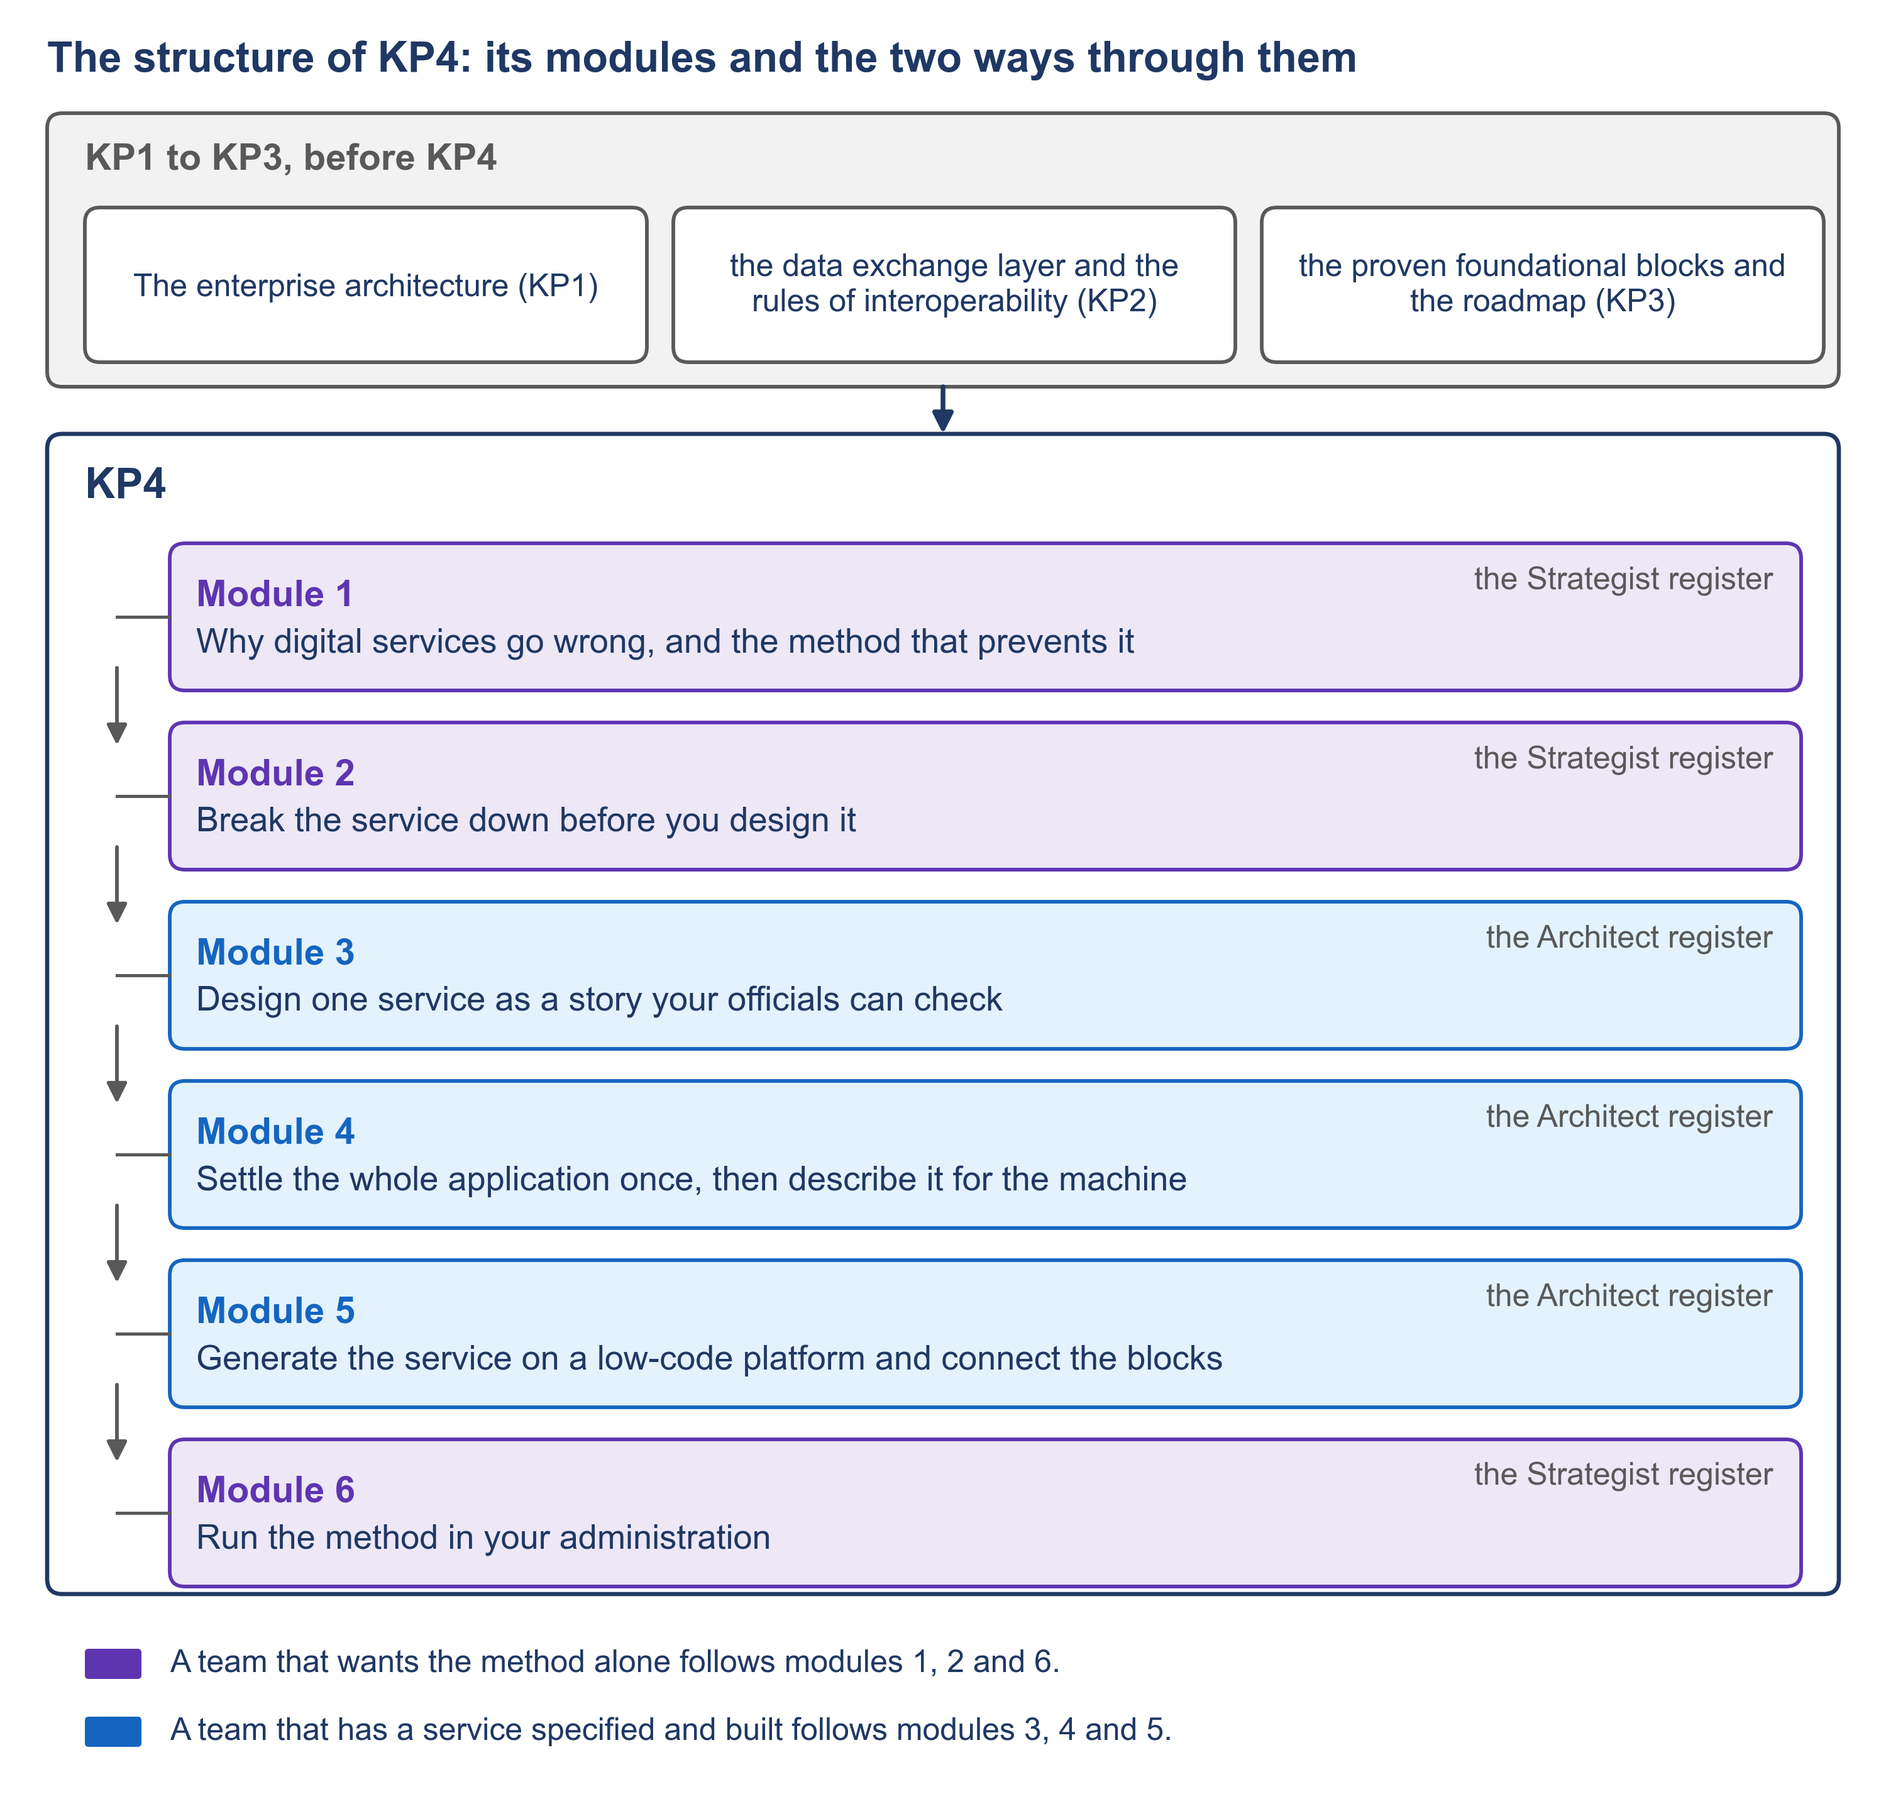
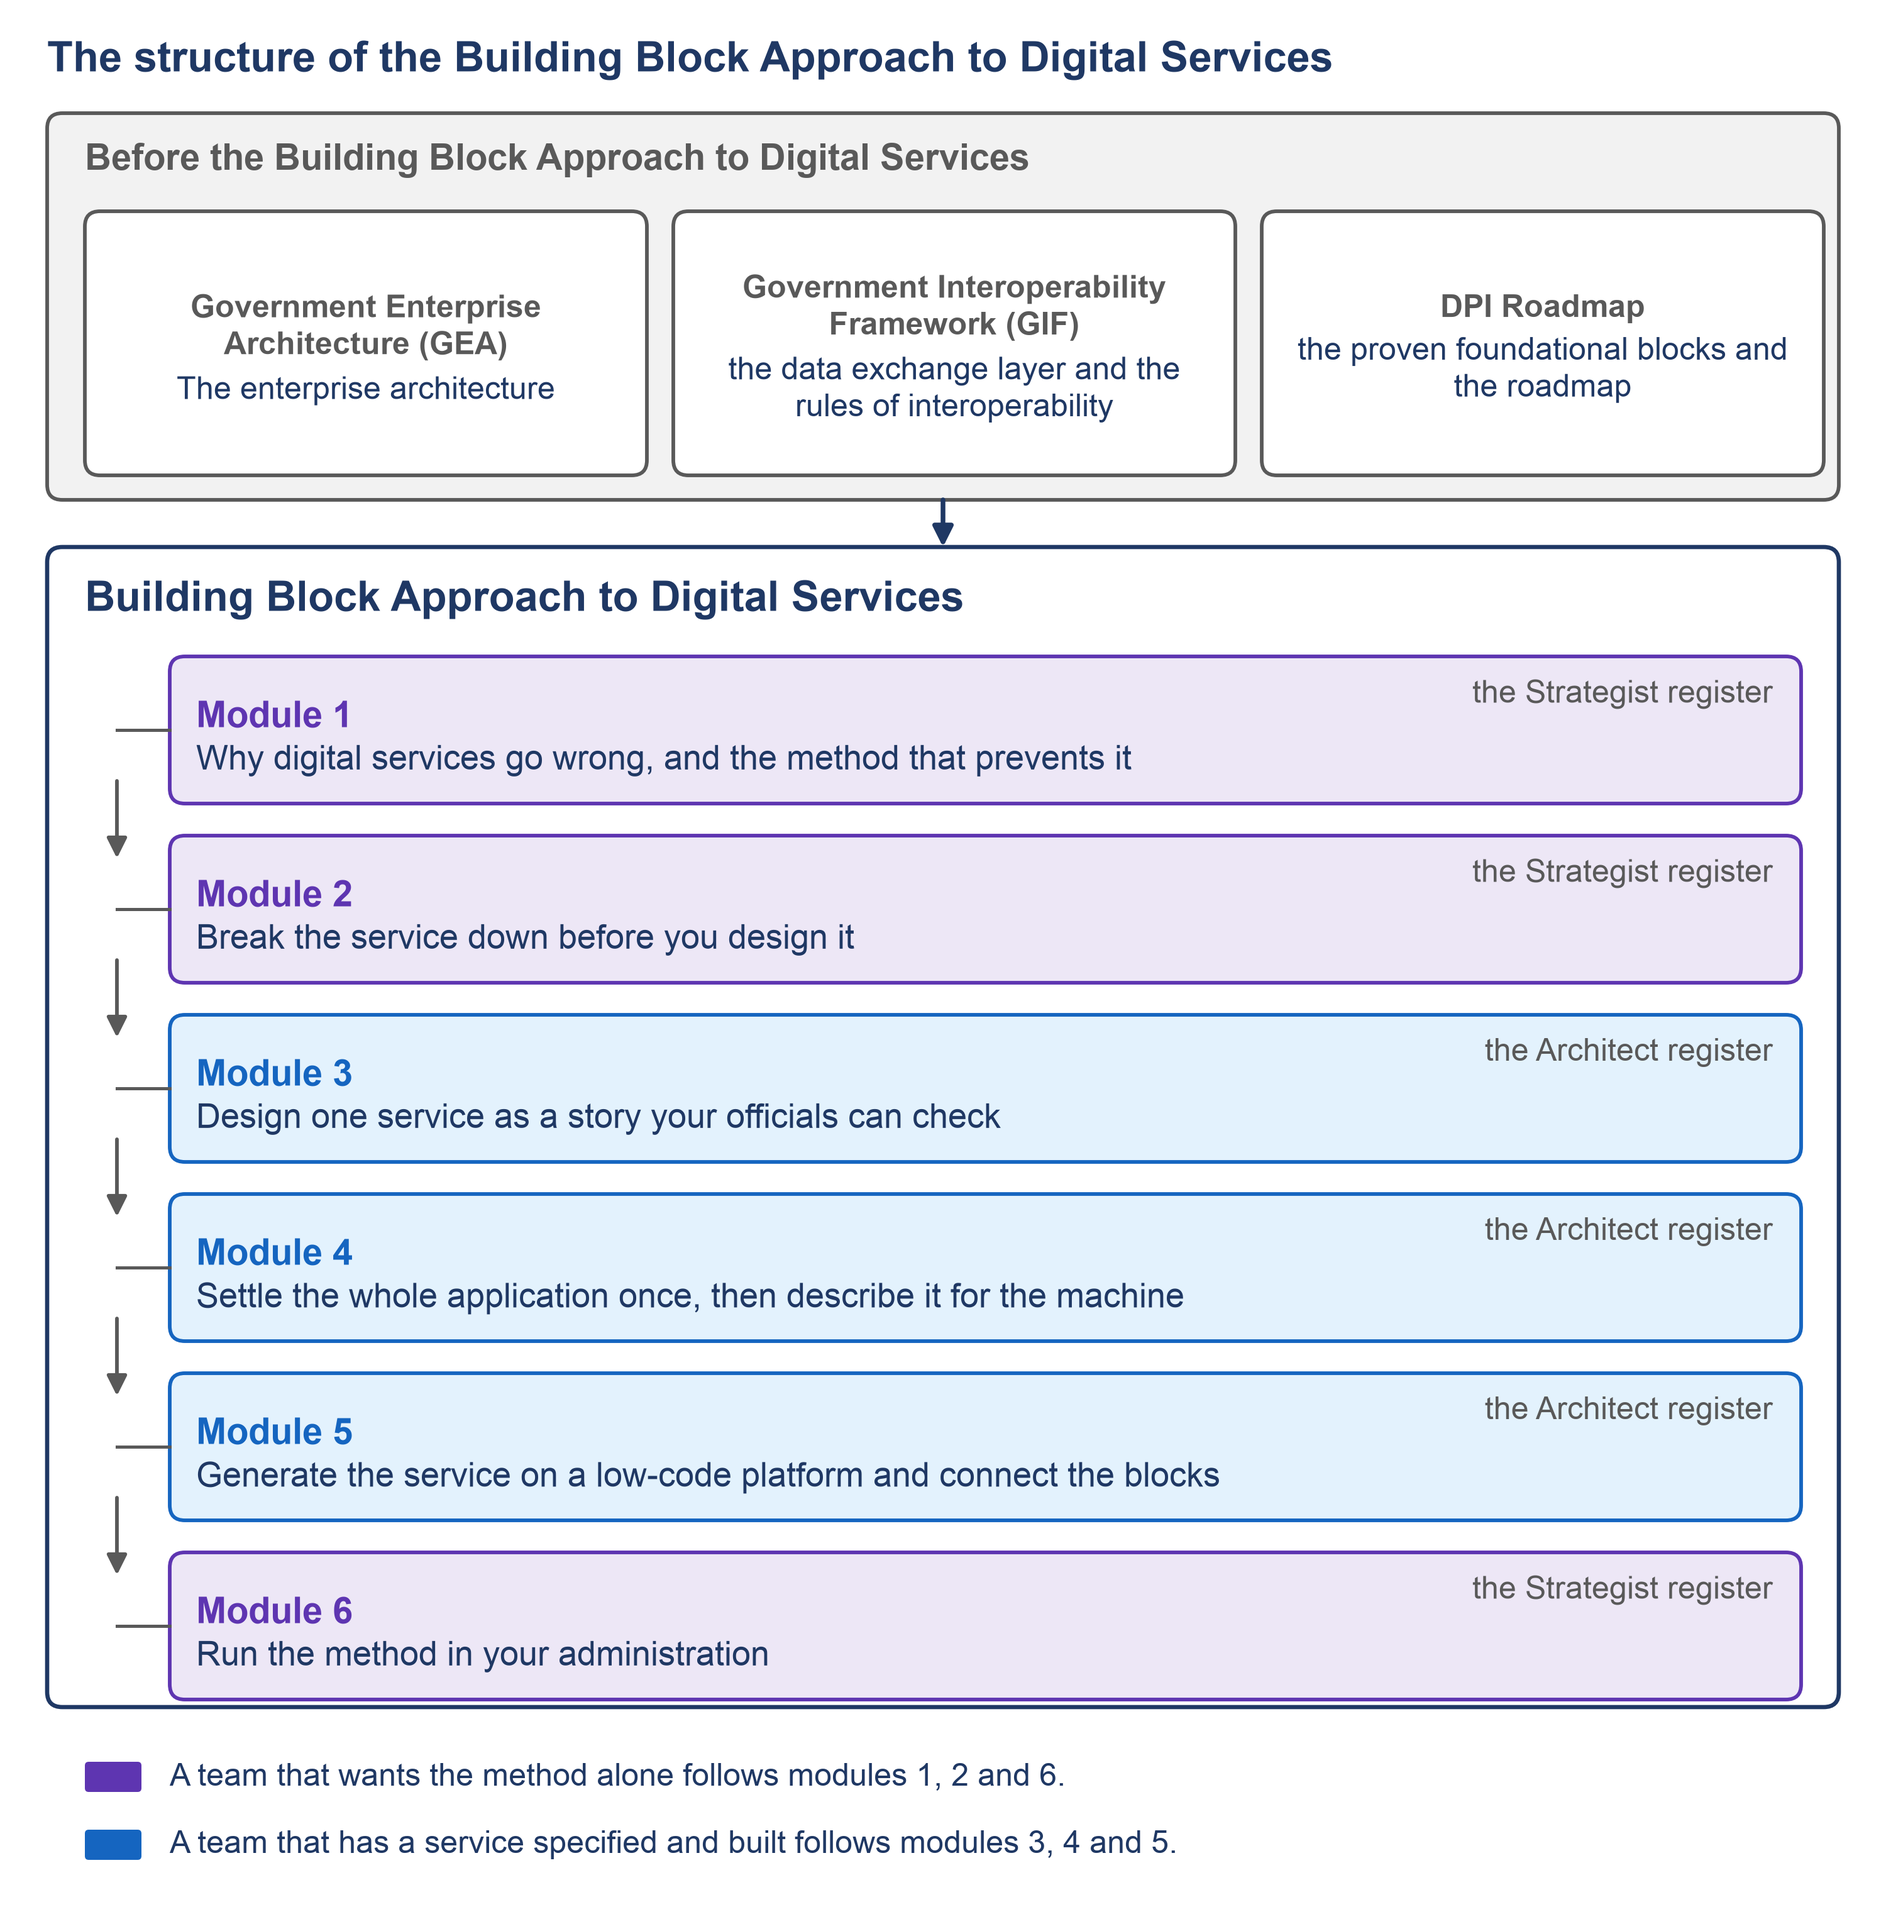
KP4 F1: the products named in full, not by their KP numbers

Changed region(s): [[0.031, 0.0, 0.992, 0.9688]]

diff --git a/10-Knowledge-Products/KP4-DSD/figures/F1_structure.py b/10-Knowledge-Products/KP4-DSD/figures/F1_structure.py
@@ -1,11 +1,13 @@
-"""F1 — The structure of KP4: its modules and the two ways through them (the guide's opening).
+"""F1 — The structure of the Building Block Approach to Digital Services: its modules and the two
+ways through them (the guide's opening).
 
     python3 F1_structure.py      draws F1_structure.png beside this file, from clean
 
 Drawn from the plan's table "The structure of the product, and its figures" and its table of
-modules: KP1 to KP3 before KP4, the six modules in order, each with the register it is written
-for, and the two ways through them. Every label is taken word for word from the KP4 plan,
-version 0.2; check_labels.py checks it.
+modules: GEA, GIF and the DPI Roadmap before this product, the six modules in order, each with
+the register it is written for, and the two ways through them. The products are named in full,
+not by their KP numbers, so those names are not in the KP4 plan, version 0.2, and
+check_labels.py will report them; every other label is taken word for word from the plan.
 """
 
 import os
@@ -29,23 +31,26 @@ MODULES = (
 
 
 def draw():
-    fig, ax = s.new_figure(NAME, height=9.6)
-    s.title(ax, "The structure of KP4: its modules and the two ways through them")
+    fig, ax = s.new_figure(NAME, height=10.2)
+    s.title(ax, "The structure of the Building Block Approach to Digital Services")
 
-    # what comes before KP4
-    s.rect(ax, 0.25, 7.55, 9.5, 1.45, edge=s.GREY_TEXT, lw=1.4)
-    s.text(ax, 0.45, 8.75, "KP1 to KP3, before KP4", size=s.HEADING, bold=True,
-           color=s.GREY_TEXT, container=(0.25, 7.55, 9.5, 1.45))
-    for k, line in enumerate(("The enterprise architecture (KP1)",
-                              "the data exchange layer and the rules of interoperability (KP2)",
-                              "the proven foundational blocks and the roadmap (KP3)")):
-        s.box(ax, 0.45 + k * 3.12, 7.68, 2.98, 0.82, role="neutral", fill=s.WHITE,
+    # what comes before this product
+    s.rect(ax, 0.25, 7.55, 9.5, 2.05, edge=s.GREY_TEXT, lw=1.4)
+    s.text(ax, 0.45, 9.35, "Before the Building Block Approach to Digital Services",
+           size=s.HEADING, bold=True, color=s.GREY_TEXT, container=(0.25, 7.55, 9.5, 2.05))
+    for k, (name, line) in enumerate((
+            ("Government Enterprise Architecture (GEA)", "The enterprise architecture"),
+            ("Government Interoperability Framework (GIF)",
+             "the data exchange layer and the rules of interoperability"),
+            ("DPI Roadmap", "the proven foundational blocks and the roadmap"))):
+        s.box(ax, 0.45 + k * 3.12, 7.68, 2.98, 1.4, role="neutral", fill=s.WHITE,
+              title=s.wrap(name, 2.7, s.SMALL, bold=True), title_size=s.SMALL,
               body=s.wrap(line, 2.7, s.SMALL), body_size=s.SMALL)
     s.arrow(ax, (5.0, 7.55), (5.0, 7.3))
 
-    # KP4 and its six modules, in the order an administration meets the method
+    # the product and its six modules, in the order an administration meets the method
     s.rect(ax, 0.25, 1.15, 9.5, 6.15, edge=s.NAVY, fill=s.WHITE, lw=1.6)
-    s.text(ax, 0.45, 7.02, "KP4", size=s.TITLE, bold=True, color=s.NAVY)
+    s.text(ax, 0.45, 7.02, "Building Block Approach to Digital Services", size=s.TITLE, bold=True, color=s.NAVY)
     top, h, gap = 6.72, 0.78, 0.17
     for k, (num, name, role) in enumerate(MODULES):
         y = top - h - k * (h + gap)
